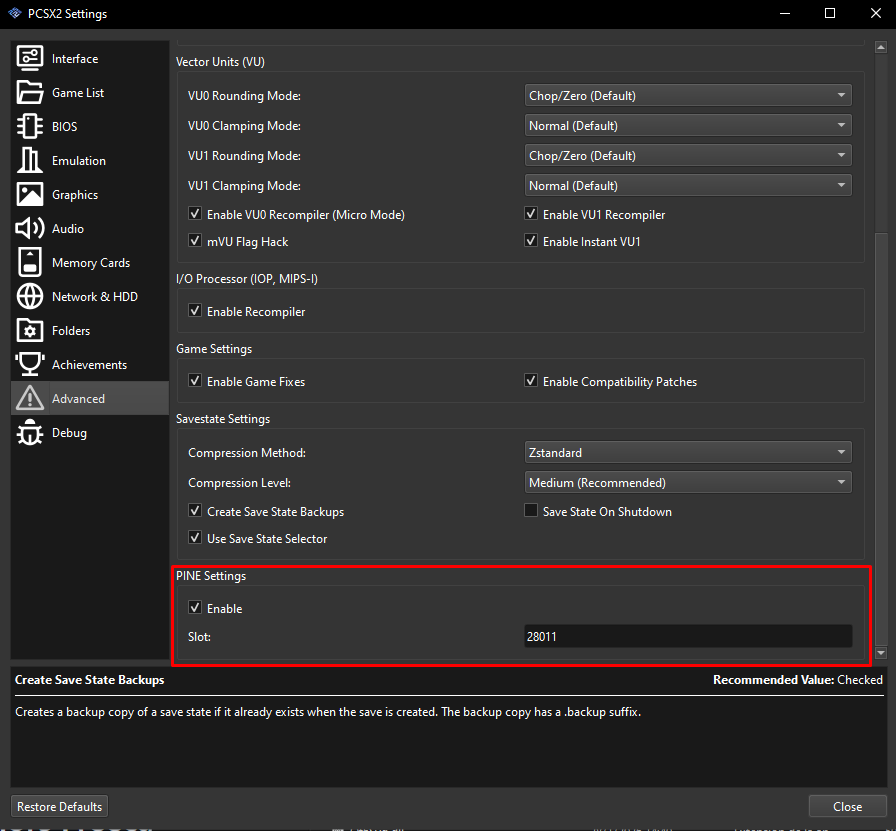
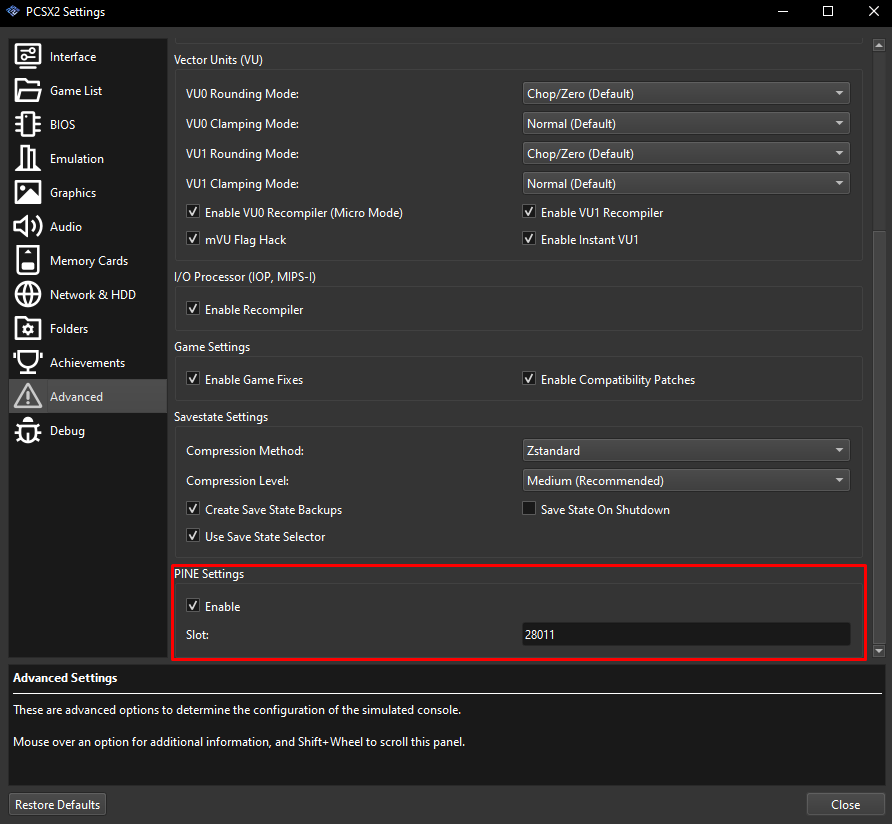
Document the PCSX2 restart requirement

diff --git a/src/TheWarriorsFreecam/LauncherForm.cs b/src/TheWarriorsFreecam/LauncherForm.cs
@@ -329,7 +329,7 @@ internal sealed class LauncherForm : Form
         if (error.GetBaseException() is System.Net.Sockets.SocketException)
         {
             return "PCSX2 PINE was not reachable on port 28011. Start PCSX2, " +
-                "enable PINE, load the supported game, and press Recheck.";
+                "enable PINE, restart PCSX2, load the supported game, and press Recheck.";
         }
 
         return $"Not ready: {message}";

diff --git a/README.md b/README.md
@@ -34,7 +34,8 @@ is required.
 ### Required: enable PINE
 
 In **Settings > Advanced > PINE Settings**, check **Enable** and leave
-**Slot** at `28011`. The mod cannot connect without this setting.
+**Slot** at `28011`, then restart PCSX2. The PINE server is not available to
+the mod until PCSX2 has been restarted after enabling it.
 
 ![PCSX2 PINE settings with Enable checked and slot 28011](docs/images/pcsx2-pine-settings.png)
 
@@ -83,7 +84,8 @@ own behavior.
 ## Running
 
 1. Confirm these three PCSX2 settings:
-   - **Required:** enable PINE and use slot `28011`.
+   - **Required:** enable PINE, use slot `28011`, and restart PCSX2 after
+     changing the setting.
    - **Required for the overlay:** use **Borderless Fullscreen** or windowed
      mode instead of exclusive fullscreen.
    - **Optional but strongly recommended:** enable **Hide Cursor In
@@ -199,8 +201,8 @@ is sensitive to you.
 
 ## Troubleshooting
 
-- **PINE is not reachable:** start PCSX2, enable its PINE server, use port
-  `28011`, load the game, and choose **Recheck**.
+- **PINE is not reachable:** enable its PINE server, use port `28011`, restart
+  PCSX2, load the game, and choose **Recheck**.
 - **Unsupported executable:** use `SLUS-21215` v1.03 with CRC `B99A75DE`.
 - **Another hook is active:** close other PINE/native tools, then restart the
   game before using this standalone mod.

diff --git a/CHANGELOG.md b/CHANGELOG.md
@@ -19,4 +19,5 @@
 - Confirmed support for PCSX2 stable and PCSX2 2.7.522 nightly.
 - Clarified supported PCSX2 channels, loaded-map requirements, memory-card
   backup guidance, recommended emulator settings, and troubleshooting.
+- Documented that PCSX2 must be restarted after enabling its PINE server.
 - Documented exclusive-fullscreen overlay limitations as a known issue.
